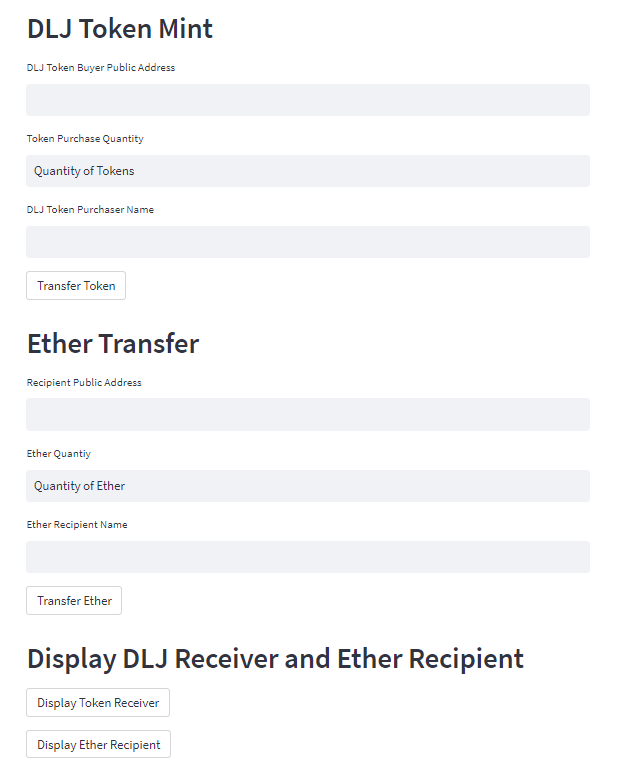
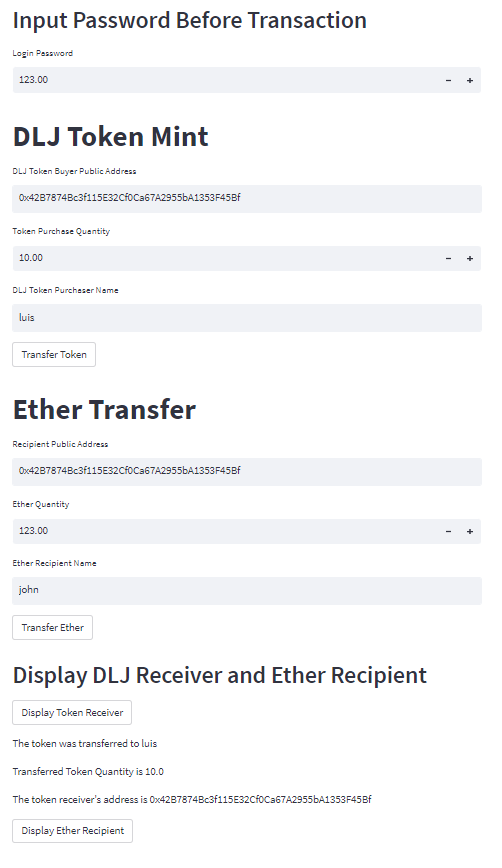
programme has been changed with passqword requirement

Changed region(s): [[0.0299, 0.1226, 0.8665, 0.9808], [0.0299, 0.0, 0.747, 0.092]]

diff --git a/app.py b/app.py
@@ -47,25 +47,29 @@ contract = load_contract()
 accounts = w3.eth.accounts
 account = accounts[0]
 # Select or enter a recipient address using a Streamlit component
-st.markdown("## DLJ Token Mint")
+st.markdown("## Input Password Before Transaction")
+password = st.number_input("Login Password")
+# Mint DLJ Token For Customers
+st.markdown("# DLJ Token Mint")
 receiver_account = st.text_input("DLJ Token Buyer Public Address")
-# Enter a text string for the token or link to digital location
-token_purchased_amount = st.text_input("Token Purchase Quantity", value="Quantity of Tokens")
+token_purchased_amount = st.number_input("Token Purchase Quantity")
 token_purchase_name = st.text_input("DLJ Token Purchaser Name")
 
 if st.button ("Transfer Token"):
-    # Call the awardCertificate function with web3
-    contract.functions.mintDLJ(receiver_account, token_purchased_amount).transact({"from":account, "gas": 1000000})
+    # Call the getPassword and MintDLJ functions with web3
+    contract.functions.getPassword(int(password)).transact({"from":account, "gas":1000000})
+    contract.functions.mintDLJ(receiver_account, int(token_purchased_amount)).transact({"from":account, "gas": 1000000})
     
 
-# Pay to Others
-st.markdown("## Ether Transfer")
+# Pay Ether to Merchants
+st.markdown("# Ether Transfer")
 recipient_account = st.text_input("Recipient Public Address")
-ether_transfer_amount=st.text_input("Ether Quantiy", value="Quantity of Ether")
+ether_transfer_amount=st.number_input("Ether Quantity")
 recipient_name = st.text_input("Ether Recipient Name")
 
 if st.button ("Transfer Ether"):
-    contract.functions.transferEther(recipient_account, ether_transfer_amount).transact({"from":account, "gas":1000000})
+    contract.functions.getPassword(int(password)).transact({"from":account, "gas":1000000})
+    contract.functions.transferEther(int(ether_transfer_amount), recipient_account).transact({"from":account, "gas":1000000})
 
 ################################################################################
 # Display Receiver
